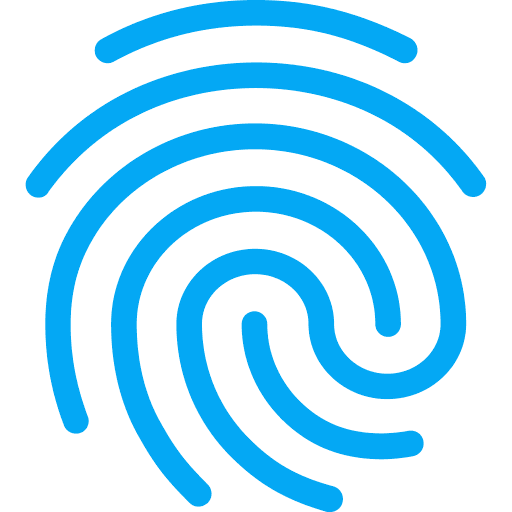
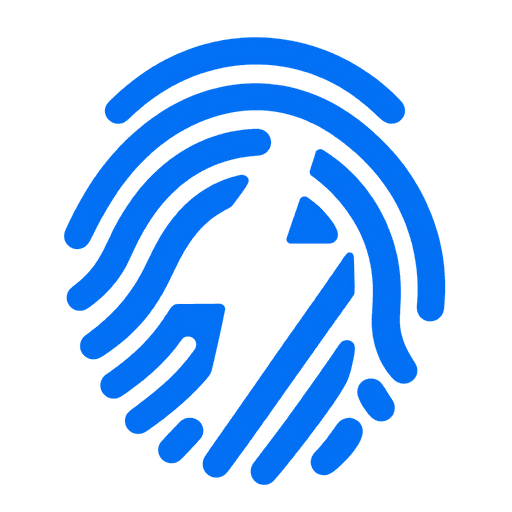
Release Power Fingerprint 0.7.7
Restore the original blue Bolt C fingerprint with its central lightning-bolt
cutout. Include transparent icons and retain the restored source artwork.
Replace the generic fingerprint and remove its unrelated SVG and attribution.

Validation: package, PNG dimensions/transparency, and all 61 private diagnostic
replay regression checks passed. No runtime or energy-accounting changes.

diff --git a/custom_components/power_fingerprint/const.py b/custom_components/power_fingerprint/const.py
@@ -5,7 +5,7 @@ from homeassistant.const import Platform
 
 DOMAIN = "power_fingerprint"
 NAME = "Power Fingerprint"
-VERSION = "0.7.6"
+VERSION = "0.7.7"
 PLATFORMS: list[Platform] = [
     Platform.SENSOR,
     Platform.SELECT,

diff --git a/README.md b/README.md
@@ -6,21 +6,20 @@ whole-house power after subtracting directly metered loads. It integrates
 estimated device energy and can export mature profiles to a private local
 Powercalc library.
 
-Version **0.7.6** · Home Assistant **2026.10 or later** · MIT license
+Version **0.7.7** · Home Assistant **2026.10 or later** · MIT license
 
-## What changed in 0.7.6
+## What changed in 0.7.7
 
-Power Fingerprint now includes its integration icon, with transparent 256- and
-512-pixel images. Home Assistant serves these locally on the integrations page;
-no separate brand registration is required. Restart Home Assistant after the
-HACS update and refresh the browser if it still displays the cached placeholder.
+The integration icon again uses the original blue fingerprint with a lightning
+bolt cut through its center. This replaces the generic fingerprint introduced
+in 0.7.6. Transparent 256- and 512-pixel images preserve the bolt on both light
+and dark backgrounds. Restart Home Assistant after updating through HACS and
+refresh the browser if it retains the previous icon.
 
-Explicit release commits now publish a GitHub release only after validation
-passes. The learning guide also explains how to interpret unidentified power
-and unavailable meters. Learning and energy accounting are unchanged, including
-the recorder storage fix introduced in 0.7.5.
+Learning and energy accounting are unchanged. No model reset or recalibration
+is needed.
 
-See [release notes](docs/RELEASE_0.7.6.md) and the [changelog](CHANGELOG.md).
+See [release notes](docs/RELEASE_0.7.7.md) and the [changelog](CHANGELOG.md).
 
 ## Installation with HACS
 

diff --git a/docs/RELEASE_0.7.7.md b/docs/RELEASE_0.7.7.md
@@ -1,0 +1,24 @@
+# Power Fingerprint 0.7.7
+
+Restore the lightning bolt in the integration icon.
+
+Version 0.7.6 accidentally substituted a generic fingerprint for the original
+Power Fingerprint artwork. This release restores the blue fingerprint with its
+distinctive lightning bolt cut through the center, using the original project
+artwork as the reference.
+
+The icon is supplied as transparent 256- and 512-pixel PNGs and works on light
+and dark backgrounds. The restored source image is retained with the package.
+
+## Installation
+
+Update to **0.7.7** through HACS and restart Home Assistant. Refresh the browser
+if it still displays the previous fingerprint. No model reset or recalibration
+is required. Learning, calibration, stored models, and energy accounting are
+unchanged.
+
+## Validation
+
+Package metadata, compilation, JSON, PNG dimensions and transparency checked.
+All 61 offline regression checks passed with private diagnostic replay enabled.
+The release publishes only after the Python and HACS validation jobs pass.

diff --git a/custom_components/power_fingerprint/brand/README.md b/custom_components/power_fingerprint/brand/README.md
@@ -1,0 +1,13 @@
+# Power Fingerprint brand artwork
+
+The integration's original **Bolt C** mark combines a blue fingerprint with
+a lightning bolt cut through the center. Keep that negative-space bolt when
+updating the artwork; a generic fingerprint is not the same brand mark.
+
+`icon-source.png` is the restored artwork with a transparent background,
+extracted from the original project artwork using image generation.
+`icon.png` (256 pixels) and `icon@2x.png` (512 pixels) are downscaled copies.
+Both work on light and dark backgrounds.
+
+Version 0.7.7 replaces the generic Material Design fingerprint introduced in
+0.7.6. Its unrelated SVG and attribution have been removed along with it.

diff --git a/CHANGELOG.md b/CHANGELOG.md
@@ -1,5 +1,14 @@
 # Changelog
 
+## 0.7.7
+
+- Restore the original blue fingerprint with its central lightning-bolt cutout.
+  Replace the generic fingerprint introduced in 0.7.6 with transparent 256- and
+  512-pixel images based on the original project artwork.
+- Retain the restored source image and document the bolt as part of the brand
+  identity. Remove the replaced generic SVG and its attribution.
+- No learning, calibration, model, or energy-accounting changes.
+
 ## 0.7.6
 
 - Bundle a transparent cyan fingerprint integration icon at 256 and 512 pixels
